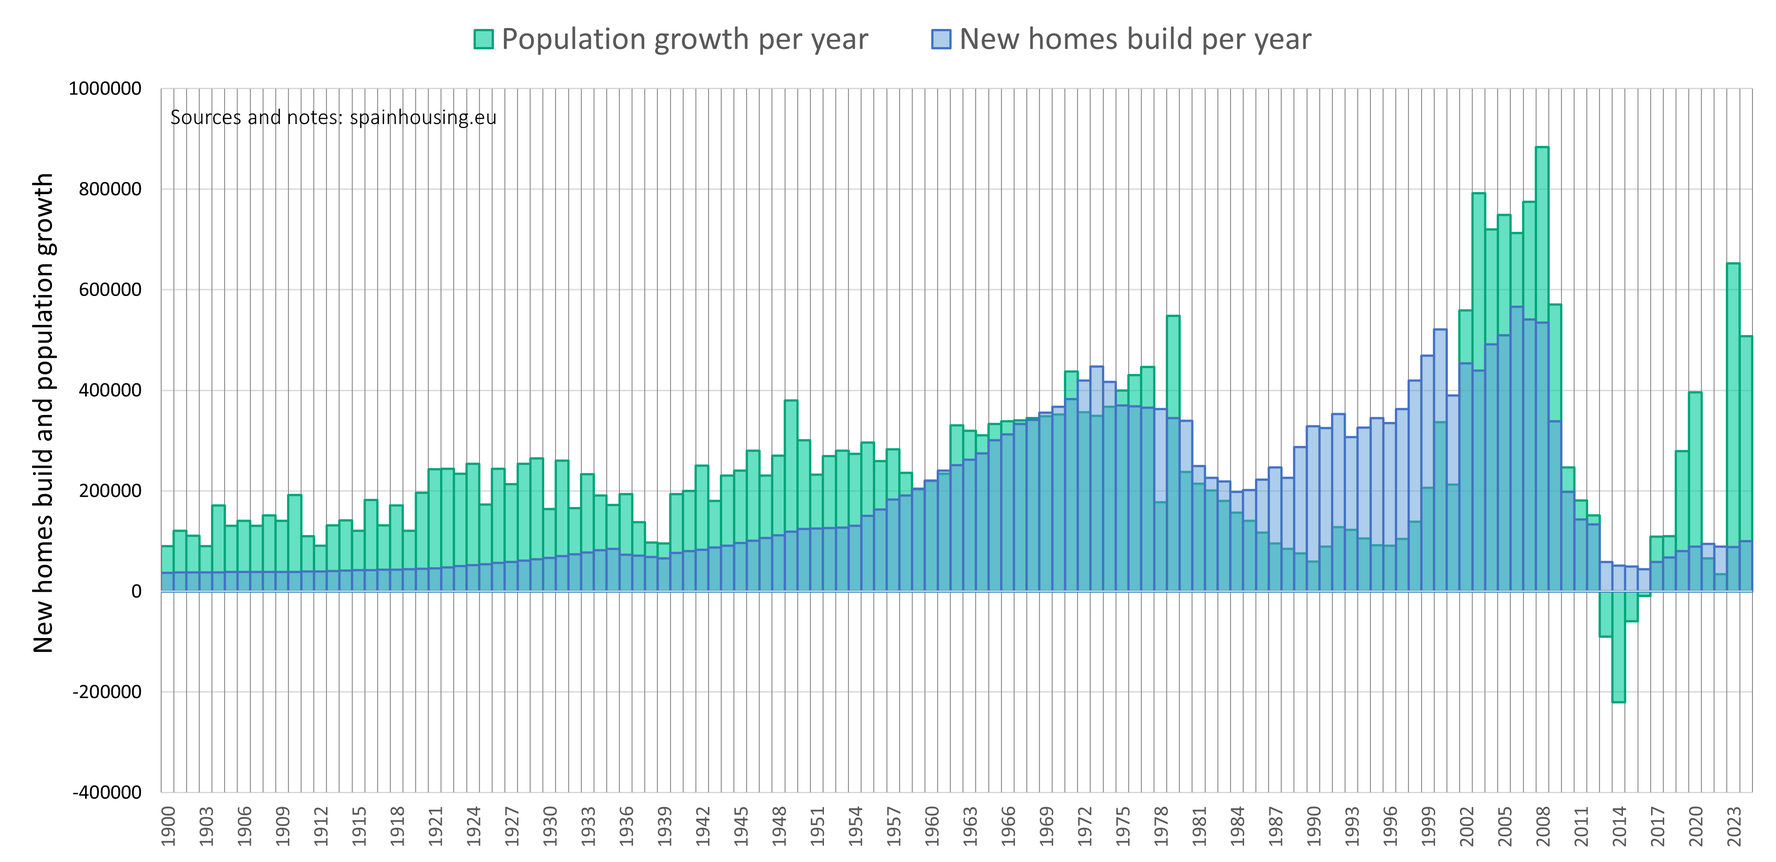
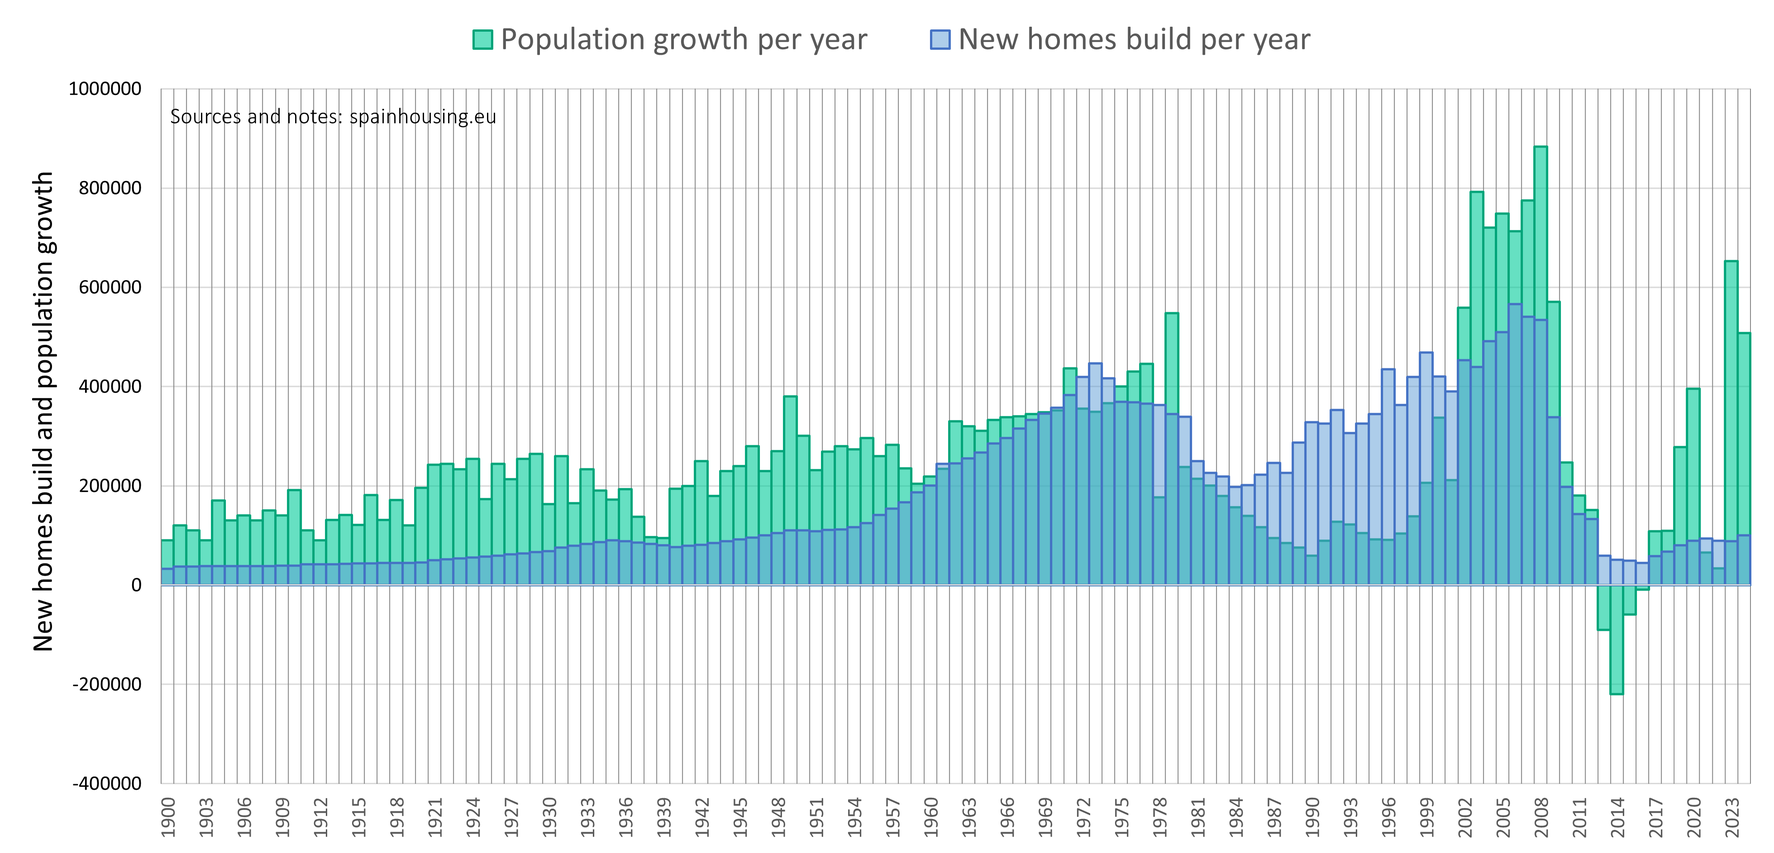
fixed_error_grammar

diff --git a/pages/posts/stocknotes.md b/pages/posts/stocknotes.md
@@ -11,13 +11,13 @@ import Image from 'next/image'
 
 # About the population
 
-The population data is properly documented by the INE from 1964 onwards, but in order to approximate the population growth between 1900 and 1963, the reference data used has been also the historical series provided by the INE (_Instituto Nacional de Estadística_). Link source:
+The population data is properly documented by the INE from 1964 onwards, but in order to approximate the population growth between 1900 and 1963, the reference data used has been the historical series provided by the INE (_Instituto Nacional de Estadística_). Link source:
 
 - [Series históricas 1900-2001: Población por sexo y edad - Datos censales](https://www.ine.es/censo2001/historia.htm).
 
 Since the data provided by the INE only corresponds to data from the beginning of each decade (1900, 1910, 1920...), data from the work from _Roser Nicolau_ has also been used to approximate the population for each of the years between 1900 and 1963.
 
-The data presented by _Roser Nicolau_ uses the mentioned historical data by the INE too, but does a deeper sourcing work in trying to provide better accuracy on the Spanish demography. Link source:
+The data presented by _Roser Nicolau_ uses the mentioned historical data by the INE, but does a deeper sourcing work in trying to provide better accuracy on the Spanish demography. Link source:
 
 - ["_Estadisticas Historicas de España, siglo XIX - XX_" (2005, second edition), chapter 2: _Población, salud y actividad_, by Roser Nicolau, Page 124, Cuadro 2.5. Book coordinated by Albert Carreras and Xavier Tafunell, Fundación BBVA, ISBN: 84‑96515‑00‑1](https://www.fbbva.es/wp-content/uploads/2017/05/dat/DE_2006_estadisticas_historicas.pdf).
 
@@ -46,7 +46,7 @@ The reason for downgrading the 1940 data is related to the Spanish Civil War. Al
 
 - [_"Movimiento Natural de la Población de España, año 1939_"(1943), done by Talleres del Instituto Geográfico y Catastral, Ministerio de Trabajo, Direccion General de Estadistica, Madrid](https://www.ine.es/inebase_historia/1939.pdf).
 
-We do not venture to assume any sort of population loss either, even if it is highly probable at least in 1939 (even more so if we consider migratory movements), but what we do consider reasonable referring to the _Movimiento Natural de la Población de España, año 1939_, is that in any case population growth suffered a fall compared to previous years in 1937, 1938 and 1939.
+We do not venture to assume any sort of population loss either, even if it is highly probable at least in 1939 (even more so if we consider migratory movements), but what we do consider reasonable referring to the _"Movimiento Natural de la Población de España, año 1939"_, is that in any case population growth suffered a fall compared to previous years in 1937, 1938 and 1939.
 
 # About the housing stock
 
@@ -58,31 +58,34 @@ However, data for the years in between (1971, 1972...1980...1994...2000) are not
 
 | Year | Bank of Spain estimation| Our estimation |
 | ---- | ----------------------- | -------------- |
-| 1970 | No data | 10.659.882 |
-| 1981 | 14.860.272 | 14.726.000 |
-| 1991 | 17.336.208 | 17.206.000 |
-| 2001 | 21.025.227 | 21.033.759 |
+| 1970 | No data | 10.659.882 (source: Atlas Digital) |
+| 1975 | No data | 12.695.853 (source: own estimation) |
+| 1981 | 14.860.272 | 14.726.000 (source: Atlas Digital) |
+| 1985 | 15.808.517 | 15.569.897 (source: own estimation) |
+| 1991 | 17.336.208 | 17.206.000 (source: Atlas Digital) |
+| 1995 | 18.351.515 | 18.536.203 (source: own estimation) |
+| 2001 | 21.025.227 | 21.033.759 (from Atlas Digital) |
 
 From 1900 to 1970 we have made our own estimations based in data collected by _Xavier Tafunell (2005)_ in:
 
 - ["_Estadisticas Historicas de España, siglo XIX - XX_" (2005, second edition), chapter 6: _Urbanización y vivienda_, by Xavier Tafunell, Page 491, Cuadro 6.7 and Cuadro 6.6. Book coordinated by Albert Carreras and Xavier Tafunell, Fundación BBVA, ISBN: 84‑96515‑00‑1](https://www.fbbva.es/wp-content/uploads/2017/05/dat/DE_2006_estadisticas_historicas.pdf).
 
-From 1950 onward, we replicated the data from _Tafunell (2005, page 491, table 6.7)_, incorporating minor adjustments to ensure consistency across our comprehensive dataset, which integrates information from multiple sources. As means of comparison, here there is a sample from  _Xavier Tafunell_ and our own estimation:
+From 1950 until 1969, we replicated and used the data from _Tafunell (2005, page 491, table 6.7)_, incorporating minor adjustments to ensure consistency across our comprehensive dataset. As means of comparison, here there is a sample from  _Xavier Tafunell_ and our own estimation:
 
 | Year | Xavier Tafunell estimation| Our estimation |
 | ---- | ------------------------- | -------------- |
-| 1900 | 1.879.400 | 2.900.608 |
-| 1910 | 2.023.600 | 3.283.754 |
-| 1920 | 2.243.000 | 3.704.853 |
-| 1930 | 2.644.700 | 4.261.352 |
-| 1940 | 3.106.400 | 5.003.585 |
-| 1950 | 6.287.490 | 6.003.353 |
-| 1960 | 7.710.522 | 7.622.423 |
-| 1970 | 10.655.814 | 10.659.882 |
+| 1900 | 1.879.400 (only urban stock) | 3.102.810 |
+| 1910 | 2.023.600 (only urban stock) | 3.485.956 |
+| 1920 | 2.243.000 (only urban stock) | 3.922.565 |
+| 1930 | 2.644.700 (only urban stock) | 4.512.078 |
+| 1940 | 3.106.400 (only urban stock) | 5.341.218 |
+| 1950 | 6.287.490 | 6.287.490 |
+| 1960 | 7.710.522 | 7.710.522 |
+| 1970 | 10.655.814 | 10.659.882 (source: Atlas Digital) |
 
-A discrepancy in the sample can be observed between 1900 and 1940. This is because, prior to 1950, _Tafunell_ research only reports housing stock from urban areas, not being able to find reliable sources for rural areas (page 490, table 6.6, _"Parque estimado de viviendas en núcleos urbanos por provincias, 1860 - 1950"_).
+A discrepancy in the sample can be observed between 1900 and 1949. This is because, prior to 1950, _Tafunell_ research only reports housing stock from urban areas, not for rural areas (page 490, table 6.6, _"Parque estimado de viviendas en núcleos urbanos por provincias, 1860 - 1950"_).
 
-The lack of reliable sources for rural areas is unfortunate, as we consider housing in rural areas to be quite relevant for obtaining a comprehensive historical overview. If we accept the figure of 1,879,400 houses in 1900 as accurate, the annual construction estimates from 1900 to 1950 would yield improbable values given the resources and means of production available during that period. To address this data gap, we had to walk on thin ice.
+The lack of reliable sources for rural areas is unfortunate, as we consider housing in rural areas to be quite relevant for obtaining a comprehensive historical overview. If we accept the figure of 1,879,400 houses in 1900 as accurate, the annual construction estimates from 1900 to 1949 would yield improbable values given the resources and means of production available during that period. To address this data gap, we had to walk on thin ice.
 
 According to research conducted by the [_Centre d'Estudis Demogràfics_](https://ced.cat/) [(2)](https://exploradorsocial.es/ojo-al-dato-asi-evoluciono-el-tamano-de-los-hogares-en-mas-de-100-anos/), the number of households in the year 1900 is estimated to be around 4.8 million.
 
@@ -90,9 +93,9 @@ For our estimations, we assumed that the actual housing stock in 1900 should hav
 
 Further accuracy is needed since the gap between those two values is significant. To enhance accuracy, we sought guidance from the buildings per period of construction dataset (_Viviendas principales por zona y tamaño del municipio, comunidades autónomas y provincias y periodo de construcción del edificio (antes de 1900 a 1950)_): [Link](https://www.ine.es/jaxi/Tabla.htm?path=/t20/e242/e04/a1991/l0/&file=01002.px&L=0)
 
-Based on this data, between 1900 and 1920, 61% of houses were in urban areas, while 39% were in rural areas. Running the numbers, if there were 1.8 million urban houses in 1900, and these represented 61% of the total stock, then the total would be around 2.9 million houses. Since 2.9 million falls into our considered range, we have assumed this value to be the best approximation we could get.
+Based on the period of construction dataset, between 1900 and 1920, 61% of houses were in urban areas (prior to 1900 would be 52%), while 39% were in rural areas (prior to 1900 would be 48%). Calculating from these figures, if there were 1.8 million urban houses in 1900, which accounted for 61% of the total housing stock, the total number of houses would be approximately 2.9 million. This estimate likely errs on the higher side, as the proportion of rural houses in 1900 was greater than in 1920 (as it was prior to 1900, as data suggests). For this reason, our estimate for 1900 would be somewhere around 3.1 million houses.
 
-Then, having 2.9 million houses in 1900 as our starting point, one of the last variables we considered for our estimations was the number of people employed in the construction sector, from the historical research conducted by _Leandro Prados de la Escosura (2017_), found in:
+Then, having ≈ 3.1 million houses in 1900 as our starting point, one of the last variables we considered for our estimations was the number of people employed in the construction sector, from the historical research conducted by _Leandro Prados de la Escosura (2017_), found in:
 
 -  _Spanish Economic Growth, 1850-2015, London: Palgrave Macmillan_, spreadsheets and extensive data available in [frdelpino.es](https://frdelpino.es/investigacion/category/01_ciencias-sociales/01_economia-espanola/02_economia-espanola-perspectiva-historica/).
 
@@ -100,8 +103,10 @@ We utilized the number of people employed in the construction sector (_Leandro P
 
 The main question we faced was determining the labour input per unit of output. We have reliable governmental data from 1990 onwards, but the variance is substantial, ranging from 3.3 workers per house constructed in the year 2000 to 14 workers per house constructed in 2020, making accurate estimation challenging.
 
-| Year | Employed in construction | Workers needed per home | Inhabitants per home |
+| Year | Employed in construction | Workers needed per home | Inhabitants per house |
 | ---- | ------------------------- | -------------- | ------------------------ |
+| 1900 | - | - | 6,00 (source: own estimation) |
+| ... | ... | ... | ... |
 | 1970 | - | - | 3,17 |
 | 1980 | - | - | 2,59 |
 | 1990 | 1.276.000 | 3,9 | 2,30 |
@@ -109,55 +114,37 @@ The main question we faced was determining the labour input per unit of output. 
 | 2010 | 1.651.000 | 8,3 | 1,85 |
 | 2020 | 1.244.100 | 14,0 | 1,83 |
 
-The best proxy we identified is linked to demography, particularly the number of inhabitants and the fertility rate. As shown in the previous table, the number of inhabitants per home has been steadily decreasing over the last 50 years (source: INE). It is reasonable to assume that the number of inhabitants per home would have been higher the further back in time we go.
+The best proxy we identified is linked to demography, particularly the number of inhabitants per house. As shown in the previous table, the number of inhabitants per house has been steadily decreasing over the last 50 years (source: INE). It is reasonable to assume that the number of inhabitants per home would have been higher the further back in time we go. In fact, following our assumption of around 3.1 million houses in 1900, together with 18 million inhabitants on that same year (sourced by the INE), the number of inhabitants per house in 1900 would be ≈ 6.
 
-In this sense, examining the household size should provide us with a clue. However, it is important to note that household size and inhabitants per home are different measures. Inhabitants per home is simply the population divided by the number of houses, whereas household size is more connected to interfamily relations, making it possible to have multiple households in the same house.
+This decreasing trend in the number of inhabitants per house somehow mirrors the trend observed in the total fertility rate, which has also steadily declined from 1900 to the present day. It is reasonable to hypothesize that a reduction in the fertility rate is likely to be associated with a decrease in the number of inhabitants per house. You can review Spain's total fertility rate data here:
+
+- ["_Estadisticas Historicas de España, siglo XIX - XX_" (2005, second edition), chapter 2: _Población, salud y actividad_, by Roser Nicolau, Page 83, Cuadro 2.2. Book coordinated by Albert Carreras and Xavier Tafunell, Fundación BBVA, ISBN: 84‑96515‑00‑1](https://www.fbbva.es/wp-content/uploads/2017/05/dat/DE_2006_estadisticas_historicas.pdf)
+
+In addition to the correlation with the total fertility rate, examining household size may offer further insights. It is important to distinguish between household size and the number of inhabitants per house, as they represent different metrics. Inhabitants per house is calculated by dividing the population by the number of houses, while household size is more closely related to familial relationships, allowing for the possibility of multiple households within a single house.
 
 According to the [_Centre d'Estudis Demogràfics_](https://ced.cat/) [(2)](https://exploradorsocial.es/ojo-al-dato-asi-evoluciono-el-tamano-de-los-hogares-en-mas-de-100-anos/) and [_Fernando Mikelarena Peña_](https://www.historiaagraria.com/FILE/articulos/HA3_mikelarena.pdf) the average household size was around 4.8 people per household in the 1900s.
 
-Recently, [_CaixaBank Research_](https://www.caixabankresearch.com/en/sector-analysis/real-estate/what-big-data-reveal-about-spains-supply-new-housing-and-demographic) indicated that between 2020 and 2022, around 420,000 new households were created in Spain, while the number of new homes started barely reached 300,000. Looking at different variables, the numbers suggest that the housing scarcity observed today was likely the norm in the 1900s until the economic boom of the 1960s. For this reason, we believe the number of inhabitants per home in the 1900s was likely higher than the average household size of 4.8 people.
+Our estimations suggest around 6 inhabitants per house in 1900, while the literature indicates a household size of approximately 4.8. This discrepancy could be attributed to the housing shortage at the time, driven by lower productivity and generally poorer economic conditions, which forced multiple households or families to live under the same roof. In contrast, due to the significant construction boom between the 1960s and 2000s, the number of inhabitants per house in 2020 (1.83) is lower than the household size in 2020 (2.51). However, this is not always the case, as the ratio between these two variables changes depending on periods of housing abundance or scarcity relative to the population.
 
-Finally, we analyzed the total fertility rate as a method for generating reliable estimates. This metric has shown a trend similar to that of the number of inhabitants per home over the past century.
+Recently, [_CaixaBank Research_](https://www.caixabankresearch.com/en/sector-analysis/real-estate/what-big-data-reveal-about-spains-supply-new-housing-and-demographic) indicated that between 2020 and 2022, around 420,000 new households were created in Spain, while the number of new homes started barely reached 300,000, highlighting a current scenario of scarcity. For this reason, we believe the number of inhabitants per home in the 1900s was likely higher than the average household size of 4.8 people.
 
-| Period     | Total Fertility Rate (TFR) | % change |
-|------------|----------|---------|
-| 1900  | 4.71     |  |
-| 1910  | 4.43     | -5.94 |
-| 1920  | 4.14     | -6.55 |
-| 1930  | 3.63     | -12.32 |
-| 1940  | 2.97     | -18.18 |
-| 1950  | 2.46     | -17.17 |
-| 1960  | 2.76     | 12.20 |
-| 1970  | 2.88     | 4.35 |
-| 1980  | 2.12     | -26.39 |
-| 1990  | 1.35     | -36.32 |
-| 2000  | 1.24     | -8.15 |
-| 2010  | 1.37     | 10.48 |
-| 2020  | 1.18     | -13.87 |
-
-- ["_Estadisticas Historicas de España, siglo XIX - XX_" (2005, second edition), chapter 2: _Población, salud y actividad_, by Roser Nicolau, Page 83, Cuadro 2.2. Book coordinated by Albert Carreras and Xavier Tafunell, Fundación BBVA, ISBN: 84‑96515‑00‑1](https://www.fbbva.es/wp-content/uploads/2017/05/dat/DE_2006_estadisticas_historicas.pdf).
-
-The total fertility rate has steadily decreased from 1900 to the present day. Again, we can infer (albeit with some risk) that the number of inhabitants per home would have similarly declined. Applying a trend similar to that observed in the fertility rate to the number of inhabitants per home, we estimate there were approximately 5 to 7 inhabitants per home in 1900 (depending on the base year utilized).
-
-After several iterations, we determined that the most suitable estimate for the number of inhabitants per house in 1900 is approximately 6 inhabitants per home. This choice exhibited a smooth downtrend that aligned well with historical data until connecting with current data.
+Overall, the final estimations suggest an initial requirement of ≈ 8 workers needed to produce 1 house in 1900, similar to the ratio observed in 2010. This would gradually decrease until reaching the well-sourced figure of 3.9 workers per house in the year 1990, following the historical minimum of 2000 during the Spanish housing bubble. After the burst of the bubble, productivity would have plummeted, resulting in the current ratio of 14 workers per house constructed.
 
 | Year | Employed in construction (_Prados de la Escosura estimations until 1989_) | Workers needed per home (_own estimation until 1989_) | Inhabitants per home (own estimation until 1969) |
 | ---- | ------------------------- | -------------- | ------------------------ |
-| 1900 | 297.294 | 8,0 (est.) | 6,42 (est.) |
-| 1910 | 311.753 | 8,0 (est.) | 6,09 (est.) |
-| 1920 | 339.384 | 7,6 (est.) | 5,78 (est.) |
-| 1930 | 482.369 | 7,2 (est.) | 5,56 (est.) |
-| 1940 | 505.798 | 6,6 (est.) | 5,08 (est.) |
-| 1950 | 758.773 | 6,1 (est.) | 4,66 (est.) |
-| 1960 | 904.864 | 4,1 (est.) | 4,01 (est.) |
-| 1970 | 1.285.694 | 3,5 (est.) | 3,17 |
+| 1900 | 297.294 | 8,5 (est.) | 6,00 (est.) |
+| 1910 | 311.753 | 8,0 (est.) | 5,74 (est.) |
+| 1920 | 339.384 | 7,5 (est.) | 5,45 (est.) |
+| 1930 | 482.369 | 7,0 (est.) | 5,25 (est.) |
+| 1940 | 505.798 | 6,6 (est.) | 4,76 (est.) |
+| 1950 | 758.773 | 6,9 (est.) | 4,45 (est.) |
+| 1960 | 904.864 | 4,5 (est.) | 3,96 (est.) |
+| 1970 | 1.285.694 | 3,6 (est.) | 3,17 |
 | 1980 | 1.148.300 | 3,4 (est.) | 2,59 |
 | 1990 | 1.276.000 | 3,9 | 2,30 |
 | 2000 | 1.722.000 | 3,3 | 1,95 |
 | 2010 | 1.651.000 | 8,3 | 1,85 |
 | 2020 | 1.244.100 | 14,0 | 1,83 |
-
-Overall, the final estimations suggest an initial requirement of 8 workers needed to produce 1 house in 1900, similar to the ratio observed in 2010. This would gradually decrease until reaching the well-sourced figure of 3.9 workers per house in the year 1990, following the historical minimum of 2000 during the Spanish housing bubble. After the burst of the bubble, productivity would have plummeted, resulting in the current ratio of 14 workers per house constructed.
 
 Selecting an input per unit of output for the entire period was challenging, and it's essential to proceed with caution when interpreting these numbers. Further research is encouraged to refine these estimates. However, by analysing multiple variables, we believe the estimations provide a realistic depiction of the evolution of the housing stock.
 

diff --git a/pages/posts/stock.md b/pages/posts/stock.md
@@ -15,7 +15,7 @@ import Image from 'next/image'
 [![Número de viviendas](/images/stockyearly.png)](/images/stockyearly.png)
 
 - **Number of dwellings and population growth**: new homes built and population change year on year. See the approach to estimate the historical data **[here](stocknotes)**.
-- **Observation**: explore on this **[map](housescarcity)** the number of inhabitants per dwelling and municipality.
+- Explore on this **[map](housescarcity)** the number of inhabitants per dwelling and municipality.
 
 [![Estoc y balance de viviendas](/images/stockbalance.png)](/images/stockbalance.png)
 
@@ -42,8 +42,7 @@ import Image from 'next/image'
 - Housing stock, from 1971 to 2000, according to Atlas Digital de las Áreas Urbanas (_Parque de Viviendas > Viviendas según tipo > Viviendas familiares > Select from available years 1970, 1981, 1991, 2001, 2011 > Tabla and Sintesis_): [Link](https://atlasau.mitma.gob.es/#c=indicator&view=map1). Based on the data from 1970, 1981 and 1991, the remaining years gaps have been estimated, in a similar way as done by Banco de España (_Observatorio de Vivienda y Suelo > Boletines periódicos > Boletín Anual 2021 > Tabla 8.1_): [Link](https://www.mivau.gob.es/urbanismo-y-suelo/suelo/observatorio-de-vivienda-y-suelo)
 - Housing stock, from 2001 onwards (_Total de viviendas por comunidades autónomas y provincias_): [Link](https://apps.fomento.gob.es/BoletinOnline2/?nivel=2&orden=33000000)
 - Buildings per period of construction (_Nacional> Viviendas > Número de viviendas principales según tipo de edificación y año de construcción_): [Link](https://www.ine.es/dyngs/INEbase/es/operacion.htm?c=Estadistica_C&cid=1254736176952&menu=resultados&idp=1254735572981)
-- Apparent cement consumption (_Housing prices from 1964 to 1984 have been extrapolated based in this variable_): [Link](https://tematicas.org/sintesis-economica/indicadores-de-produccion-y-demanda-nacional/consumo-aparente-de-cemento/)
-- Apparent cement consumption, Ministerio de Industria y Turismo (_Principales resultados_): [Link](https://industria.gob.es/es-es/estadisticas/paginas/estadistica-cemento.aspx)
+- Apparent cement consumption, Ministerio de Industria y Turismo (_Principales resultados_): [Link](https://industria.gob.es/es-es/estadisticas/paginas/estadistica-cemento.aspx). Apparent cement consumption (_Housing prices from 1964 to 1984 have been extrapolated based in this variable_): [Link](https://tematicas.org/sintesis-economica/indicadores-de-produccion-y-demanda-nacional/consumo-aparente-de-cemento/)
 - Housing prices, from 1985 to 2006, according to Sociedad de Tasación (_Access to data is under request, but can be seen in the linked publication_): [Publication](https://www.st-tasacion.es/ext/pdf/estudios/sep19/2-Evolucion_de_Precios_de_Vivienda.pdf), [Link](https://www.st-tasacion.es/informe-de-tendencias-digital/)
 - Housing prices, from 2007 onwards, according to the notaries (_Grupo 5 > Acto 501 - Compraventa inmuebles > Inmuebles en fincas urbanas, viviendas_): [Link](http://www.notariado.org/liferay/web/cien/estadisticas-al-completo)
 - Inflation data (_Table: average inflation Spain (CPI) - by year_): [Link](https://www.inflation.eu/en/inflation-rates/spain/historic-inflation/cpi-inflation-spain.aspx)

diff --git a/pages/posts/sitemap.md b/pages/posts/sitemap.md
@@ -41,17 +41,17 @@ author: Collection of all the 47 charts published in the site
   * (22) [Evolution of wages](/images/wageyearly.png)
   * (23) [Disconnection between wages and mortgages](/images/wageratio.png)
   * (24) [Housing affordability](/images/wageaffordability.png)
-+ _Land and building licenses_
-  * (25) [Price of urban land and building licenses](/images/permitsland.png)
-  * (26) [Building licenses according to type of permit](/images/permitstype.png)
-  * (27) [Building licenses by type of requester](/images/permitsdistribution.png)
-  * (28) [Land and house velocity ratio](/images/velocity.png)
 + _Stock development_
-  * (29) [Number of dwellings](/images/stockyearly.png)
-  * (30) [Dwellings per period of construction](/images/stockperiods.png)
-  * (31) [Housing stock balance](/images/stockbalance.png)
-  * (32) [Distribution of new houses per type](/images/typehouse.png)
-  * (33) [Cement consumption](/images/cement.png)
+  * (25) [Number of dwellings](/images/stockyearly.png)
+  * (26) [Dwellings per period of construction](/images/stockperiods.png)
+  * (27) [Housing stock balance](/images/stockbalance.png)
+  * (28) [Distribution of new houses per type](/images/typehouse.png)
+  * (29) [Cement consumption](/images/cement.png)
++ _Land and building licenses_
+  * (30) [Price of urban land and building licenses](/images/permitsland.png)
+  * (31) [Building licenses according to type of permit](/images/permitstype.png)
+  * (32) [Building licenses by type of requester](/images/permitsdistribution.png)
+  * (33) [Land and house velocity ratio](/images/velocity.png)
 + _Funding source_
   * (34) [Government-funded housing](/images/publichousing.png)
   * (35) [Homes build according to type of funding](/images/publicprivate.png)
